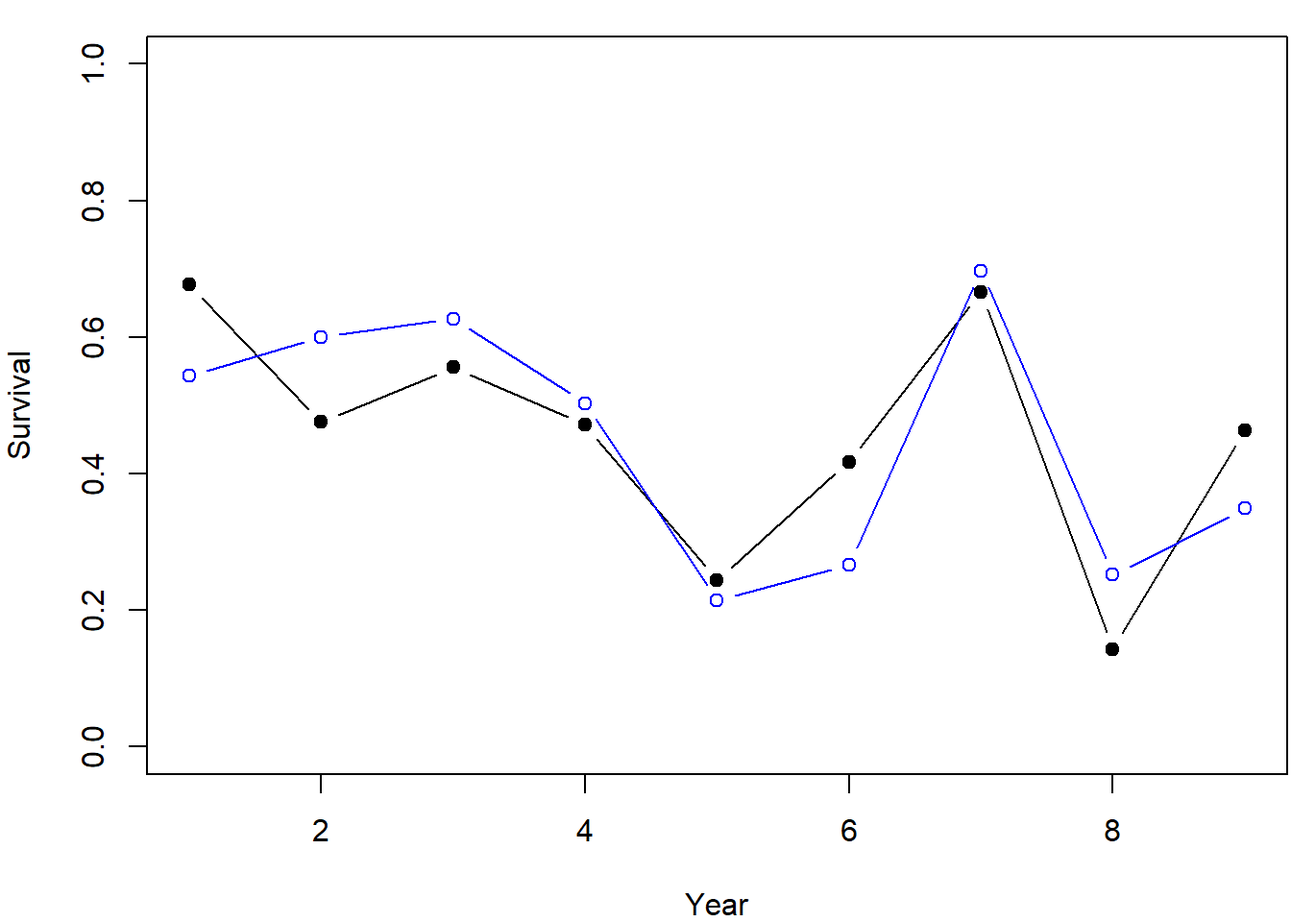
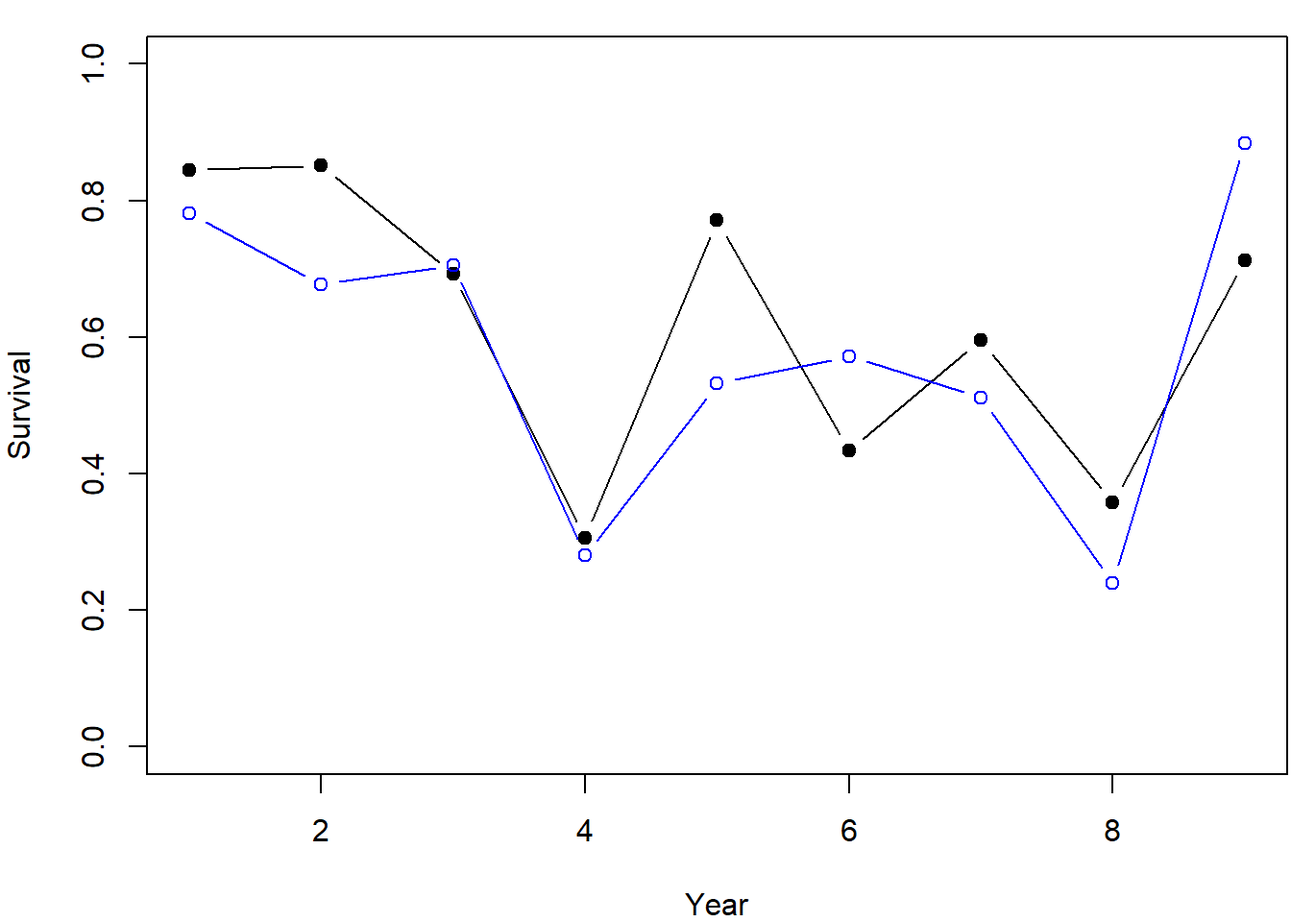
Chapter 6 edits

diff --git a/_book/Survival.html b/_book/Survival.html
@@ -23,7 +23,7 @@
 <meta name="author" content="Joseph E. Hightower" />
 
 
-<meta name="date" content="2024-05-03" />
+<meta name="date" content="2024-05-07" />
 
   <meta name="viewport" content="width=device-width, initial-scale=1" />
   <meta name="apple-mobile-web-app-capable" content="yes" />
@@ -682,12 +682,12 @@ div.csl-indent {
 <span id="cb9-58"><a href="Survival.html#cb9-58" tabindex="-1"></a><span class="fu">points</span>(AnnualS, <span class="at">col=</span><span class="st">&quot;blue&quot;</span>, <span class="at">type=</span><span class="st">&quot;b&quot;</span>)</span></code></pre></div>
 <p>The final three lines of code compare the annual survival estimates and true values (Figure <a href="Survival.html#fig:CohortPlot">6.1</a>). The plot option “type=b” produces a line of connected dots (i.e., <em>both</em> points and line segments), and the “pch=19” option selects for a filled dot. An online search for “r plot options pch” will provide the various choices for plotting symbols. The range for the y axis is fixed at 0-1 to ensure that the plot will contain the full range of both the estimates and the true values. The <code>points()</code> function adds to the plot the true values. The model provides reliable estimates of annual (and mean) survival and initial cohort size for the simulated data. Run the simulation and model fitting code multiple times to observe model performance. It would be worthwhile to test the approach using more variability in initial cohort sizes; for example, by using a negative binomial distribution rather than a Poisson.</p>
 <div class="figure"><span style="display:block;" id="fig:CohortPlot"></span>
-<img src="bookdown_files/figure-html/CohortPlot-1.png" alt="Estimated annual survival rate from survey catch-at-age matrix." width="90%" />
+<img src="bookdown_files/figure-html/CohortPlot-1.png" alt="Example run showing true (blue) and estimated (black) annual survival rate from a cohort-based analysis of survey catch-at-age data." width="90%" />
 <p class="caption">
-FIGURE 6.1: Estimated annual survival rate from survey catch-at-age matrix.
+FIGURE 6.1: Example run showing true (blue) and estimated (black) annual survival rate from a cohort-based analysis of survey catch-at-age data.
 </p>
 </div>
-<p>It is important to keep in mind our predicted survey catches are not estimates of true abundance but simply scaled to the survey catches. <span class="citation">Millar and Meyer (<a href="#ref-millar.meyer2000">2000</a>)</span> illustrate a Bayesian approach for estimating true abundance from survey <em>and</em> harvest catch-at-age matrices.</p>
+<p>It is important to keep in mind that the predicted survey catches are not estimates of true abundance but simply scaled to the survey catches. <span class="citation">Millar and Meyer (<a href="#ref-millar.meyer2000">2000</a>)</span> illustrate a Bayesian approach for estimating true abundance from survey <em>and</em> harvest catch-at-age matrices.</p>
 </div>
 </div>
 <div id="TelemetryBased" class="section level2 hasAnchor" number="6.2">
@@ -698,7 +698,7 @@ FIGURE 6.1: Estimated annual survival rate from survey catch-at-age matrix.
 <p>Our simulation is for the most basic case, with survival and detection probabilities that are constant over time. Extended models that allow for time variation are presented by <span class="citation">Kéry and Schaub (<a href="#ref-kéry.schaub_2011">2011</a>)</span>. The number of occasions and sample size are arbitrary but they serve as useful replicates here because the underlying parameters are constant over time and individuals. We assume a moderate survival rate (0.5) and a high detection probability (0.8). Detection probabilities of that magnitude are difficult to achieve by survey sampling but are reasonable when using an automated monitoring system <span class="citation">(<a href="#ref-hewitt.etal2010">Hewitt et al. 2010</a>)</span>.</p>
 <div class="sourceCode" id="cb10"><pre class="sourceCode r"><code class="sourceCode r"><span id="cb10-1"><a href="Survival.html#cb10-1" tabindex="-1"></a><span class="fu">rm</span>(<span class="at">list=</span><span class="fu">ls</span>()) <span class="co"># Clear Environment</span></span>
 <span id="cb10-2"><a href="Survival.html#cb10-2" tabindex="-1"></a></span>
-<span id="cb10-3"><a href="Survival.html#cb10-3" tabindex="-1"></a><span class="co"># Modified from Kery and Schaub 2012, Section 7.3</span></span>
+<span id="cb10-3"><a href="Survival.html#cb10-3" tabindex="-1"></a><span class="co"># Modified from Kery and Schaub 2011, Section 7.3</span></span>
 <span id="cb10-4"><a href="Survival.html#cb10-4" tabindex="-1"></a><span class="co"># Define parameter values</span></span>
 <span id="cb10-5"><a href="Survival.html#cb10-5" tabindex="-1"></a>n.occasions <span class="ot">&lt;-</span> <span class="dv">5</span>            <span class="co"># Number of capture occasions</span></span>
 <span id="cb10-6"><a href="Survival.html#cb10-6" tabindex="-1"></a>marked <span class="ot">&lt;-</span> <span class="dv">50</span>                <span class="co"># Number marked (all at time 1)</span></span>
@@ -760,28 +760,29 @@ FIGURE 6.1: Estimated annual survival rate from survey catch-at-age matrix.
 <span id="cb11-34"><a href="Survival.html#cb11-34" tabindex="-1"></a>  state <span class="ot">&lt;-</span> ch</span>
 <span id="cb11-35"><a href="Survival.html#cb11-35" tabindex="-1"></a>  <span class="cf">for</span> (i <span class="cf">in</span> <span class="dv">1</span><span class="sc">:</span><span class="fu">dim</span>(ch)[<span class="dv">1</span>]){</span>
 <span id="cb11-36"><a href="Survival.html#cb11-36" tabindex="-1"></a>    n1 <span class="ot">&lt;-</span> <span class="fu">min</span>(<span class="fu">which</span>(ch[i,]<span class="sc">==</span><span class="dv">1</span>)) <span class="co"># Column with first detection (col 1 here)</span></span>
-<span id="cb11-37"><a href="Survival.html#cb11-37" tabindex="-1"></a>    n2 <span class="ot">&lt;-</span> <span class="fu">max</span>(<span class="fu">which</span>(ch[i,]<span class="sc">==</span><span class="dv">1</span>)) <span class="co"># Last detection (so known to be alive between n1 and n2)</span></span>
-<span id="cb11-38"><a href="Survival.html#cb11-38" tabindex="-1"></a>    state[i,n1<span class="sc">:</span>n2] <span class="ot">&lt;-</span> <span class="dv">1</span></span>
-<span id="cb11-39"><a href="Survival.html#cb11-39" tabindex="-1"></a>    state[i,n1] <span class="ot">&lt;-</span> <span class="cn">NA</span></span>
-<span id="cb11-40"><a href="Survival.html#cb11-40" tabindex="-1"></a>  }</span>
-<span id="cb11-41"><a href="Survival.html#cb11-41" tabindex="-1"></a>  state[state<span class="sc">==</span><span class="dv">0</span>] <span class="ot">&lt;-</span> <span class="cn">NA</span></span>
-<span id="cb11-42"><a href="Survival.html#cb11-42" tabindex="-1"></a>  <span class="fu">return</span>(state)</span>
-<span id="cb11-43"><a href="Survival.html#cb11-43" tabindex="-1"></a>}</span>
-<span id="cb11-44"><a href="Survival.html#cb11-44" tabindex="-1"></a></span>
-<span id="cb11-45"><a href="Survival.html#cb11-45" tabindex="-1"></a>jags.inits <span class="ot">&lt;-</span> <span class="cf">function</span>(){<span class="fu">list</span>(<span class="at">S.est =</span> <span class="fu">runif</span>(<span class="dv">1</span>, <span class="dv">0</span>, <span class="dv">1</span>), <span class="at">p.est =</span> <span class="fu">runif</span>(<span class="dv">1</span>, <span class="dv">0</span>, <span class="dv">1</span>),</span>
-<span id="cb11-46"><a href="Survival.html#cb11-46" tabindex="-1"></a>                              <span class="at">z =</span> <span class="fu">init.z</span>(CH))}</span>
-<span id="cb11-47"><a href="Survival.html#cb11-47" tabindex="-1"></a></span>
-<span id="cb11-48"><a href="Survival.html#cb11-48" tabindex="-1"></a><span class="co"># Parameters monitored</span></span>
-<span id="cb11-49"><a href="Survival.html#cb11-49" tabindex="-1"></a>jags.params <span class="ot">&lt;-</span> <span class="fu">c</span>(<span class="st">&quot;S.est&quot;</span>, <span class="st">&quot;p.est&quot;</span>)</span>
-<span id="cb11-50"><a href="Survival.html#cb11-50" tabindex="-1"></a></span>
-<span id="cb11-51"><a href="Survival.html#cb11-51" tabindex="-1"></a>model.file <span class="ot">&lt;-</span> <span class="st">&#39;CJS_StateSpace.txt&#39;</span></span>
-<span id="cb11-52"><a href="Survival.html#cb11-52" tabindex="-1"></a></span>
-<span id="cb11-53"><a href="Survival.html#cb11-53" tabindex="-1"></a>jagsfit <span class="ot">&lt;-</span> <span class="fu">jags</span>(<span class="at">data=</span>jags.data, jags.params, <span class="at">inits=</span>jags.inits,</span>
-<span id="cb11-54"><a href="Survival.html#cb11-54" tabindex="-1"></a>                <span class="at">n.chains =</span> <span class="dv">3</span>, <span class="at">n.thin=</span><span class="dv">1</span>, <span class="at">n.iter =</span> <span class="dv">4000</span>, <span class="at">n.burnin=</span><span class="dv">2000</span>,</span>
-<span id="cb11-55"><a href="Survival.html#cb11-55" tabindex="-1"></a>                model.file)</span>
-<span id="cb11-56"><a href="Survival.html#cb11-56" tabindex="-1"></a><span class="fu">print</span>(jagsfit)</span>
-<span id="cb11-57"><a href="Survival.html#cb11-57" tabindex="-1"></a><span class="fu">plot</span>(jagsfit)</span></code></pre></div>
-<p>The JAGS code for fitting the model uses our standard uninformative prior distribution for the two probabilities (survival, detection probability). The likelihood mirrors the simulation code. The matrix z contains the latent state, which is sometimes known but inferred in situations where the pattern is ambiguous. JAGS requires good initial values (or will terminate execution if it encounters an initial value that is inconsistent with the observations, such as detection of a fish that the model considers to be dead). To avoid that, we use the <span class="citation">Kéry and Schaub (<a href="#ref-kéry.schaub_2011">2011</a>)</span> approach where the latent state is set to 1 between the first and last detections of an individual (user-defined function <code>init.z()</code>).</p>
+<span id="cb11-37"><a href="Survival.html#cb11-37" tabindex="-1"></a>    n2 <span class="ot">&lt;-</span> <span class="fu">max</span>(<span class="fu">which</span>(ch[i,]<span class="sc">==</span><span class="dv">1</span>)) <span class="co"># Column with last detection</span></span>
+<span id="cb11-38"><a href="Survival.html#cb11-38" tabindex="-1"></a>    <span class="co"># Fish are known to be alive between n1 and n2</span></span>
+<span id="cb11-39"><a href="Survival.html#cb11-39" tabindex="-1"></a>    state[i,n1<span class="sc">:</span>n2] <span class="ot">&lt;-</span> <span class="dv">1</span></span>
+<span id="cb11-40"><a href="Survival.html#cb11-40" tabindex="-1"></a>    state[i,n1] <span class="ot">&lt;-</span> <span class="cn">NA</span> <span class="co"># Initial value not needed for release period</span></span>
+<span id="cb11-41"><a href="Survival.html#cb11-41" tabindex="-1"></a>  }</span>
+<span id="cb11-42"><a href="Survival.html#cb11-42" tabindex="-1"></a>  state[state<span class="sc">==</span><span class="dv">0</span>] <span class="ot">&lt;-</span> <span class="cn">NA</span></span>
+<span id="cb11-43"><a href="Survival.html#cb11-43" tabindex="-1"></a>  <span class="fu">return</span>(state)</span>
+<span id="cb11-44"><a href="Survival.html#cb11-44" tabindex="-1"></a>}</span>
+<span id="cb11-45"><a href="Survival.html#cb11-45" tabindex="-1"></a></span>
+<span id="cb11-46"><a href="Survival.html#cb11-46" tabindex="-1"></a>jags.inits <span class="ot">&lt;-</span> <span class="cf">function</span>(){<span class="fu">list</span>(<span class="at">S.est =</span> <span class="fu">runif</span>(<span class="dv">1</span>, <span class="dv">0</span>, <span class="dv">1</span>), <span class="at">p.est =</span> <span class="fu">runif</span>(<span class="dv">1</span>, <span class="dv">0</span>, <span class="dv">1</span>),</span>
+<span id="cb11-47"><a href="Survival.html#cb11-47" tabindex="-1"></a>                              <span class="at">z =</span> <span class="fu">init.z</span>(CH))}</span>
+<span id="cb11-48"><a href="Survival.html#cb11-48" tabindex="-1"></a></span>
+<span id="cb11-49"><a href="Survival.html#cb11-49" tabindex="-1"></a><span class="co"># Parameters monitored</span></span>
+<span id="cb11-50"><a href="Survival.html#cb11-50" tabindex="-1"></a>jags.params <span class="ot">&lt;-</span> <span class="fu">c</span>(<span class="st">&quot;S.est&quot;</span>, <span class="st">&quot;p.est&quot;</span>)</span>
+<span id="cb11-51"><a href="Survival.html#cb11-51" tabindex="-1"></a></span>
+<span id="cb11-52"><a href="Survival.html#cb11-52" tabindex="-1"></a>model.file <span class="ot">&lt;-</span> <span class="st">&#39;CJS_StateSpace.txt&#39;</span></span>
+<span id="cb11-53"><a href="Survival.html#cb11-53" tabindex="-1"></a></span>
+<span id="cb11-54"><a href="Survival.html#cb11-54" tabindex="-1"></a>jagsfit <span class="ot">&lt;-</span> <span class="fu">jags</span>(<span class="at">data=</span>jags.data, jags.params, <span class="at">inits=</span>jags.inits,</span>
+<span id="cb11-55"><a href="Survival.html#cb11-55" tabindex="-1"></a>                <span class="at">n.chains =</span> <span class="dv">3</span>, <span class="at">n.thin=</span><span class="dv">1</span>, <span class="at">n.iter =</span> <span class="dv">4000</span>, <span class="at">n.burnin=</span><span class="dv">2000</span>,</span>
+<span id="cb11-56"><a href="Survival.html#cb11-56" tabindex="-1"></a>                model.file)</span>
+<span id="cb11-57"><a href="Survival.html#cb11-57" tabindex="-1"></a><span class="fu">print</span>(jagsfit)</span>
+<span id="cb11-58"><a href="Survival.html#cb11-58" tabindex="-1"></a><span class="fu">plot</span>(jagsfit)</span></code></pre></div>
+<p>The JAGS code for fitting the model uses our standard uninformative priors for the two probabilities (survival, detection probability). The likelihood mirrors the simulation code. The matrix z contains the latent state, which is sometimes known but inferred in situations where the pattern is ambiguous. JAGS requires good initial values (or will terminate execution if it encounters an initial value that is inconsistent with the observations, such as detection of a fish that the model considers to be dead). To avoid that, we use the <span class="citation">Kéry and Schaub (<a href="#ref-kéry.schaub_2011">2011</a>)</span> approach where the latent state is set to 1 between the first and last detections of an individual (user-defined function <code>init.z()</code>).</p>
 <p>Estimates appear to be very reliable for this scenario, where capture histories for 50 fish are used to estimate only two time-independent parameters. Would you obtain usefully precise results with a sample size of 25 or 30 fish? How does reliability change as you reduce the assumed capture probability?</p>
 <p>One important advantage of this telemetry method is that estimates are essentially produced in real-time and on any time scale. For example, the method could be used to estimate average annual survival over the first few years after a regulation change. Even better would be to modify the code to generate annual survival estimates, so that monitoring could be done over a block of years with a management action taken midway.</p>
 </div>
@@ -823,7 +824,7 @@ FIGURE 6.1: Estimated annual survival rate from survey catch-at-age matrix.
 <p>Tags at risk are contained in an upper triangular matrix, with the diagonal element being the number released (NTags) and subsequent elements obtained as the previous number at risk multiplied by the survival rate. We arbitrarily assume Periods=3, a true survival rate (S.true) of 0.8 and a tag-recovery rate of 0.1. You should inspect the matrix by clicking on the name in the Environment window. The above parameters result in a vector of 1000, 800, and 640 tags at risk from a release in period 1. Cells in the matrix of fates are obtained as the number at risk times the tag-recovery rate, plus a final column for fish not seen again. The number released (1000) is arbitrary (and ambitious), but using a large value is helpful for reviewing the calculations that produce the two matrices. The parameter values can be changed to mimic any planned study design.</p>
 <p>This section of code introduces a <code>while</code> loop. This different looping construct is needed because all rows except the last one include periods after the release. We need to be able to skip the additional processing in the last row, which has only the diagonal element. The final column for each row is the not-seen-again calculation. That value is highest for the most recent release, because most of those fish will still be alive. That uncertainty about whether fish are still at risk or have died is reduced by extending the number of periods for tag returns. Our example has the same number of releases and return periods, but the code could be modified to allow for additional periods of tag returns.</p>
 <p>Inspecting the matrix of fates is helpful for understanding how survival is estimated. The expected tag returns within any column form ratios that equal the survival rate. For example, we would expect 80 tags returned in the second period from the first release compared to 100 from the second release, because the first release has been at large for one additional period. Similarly the ratio from successive rows of returns in period 3 also equal the survival rate. Thus we have several cells (and ratios) that provide information about survival, which we assumed to be constant over the three periods.</p>
-<p>The final lines of code in this section introduce the stochasticity associated with a multinomial distribution. The matrix of fates (expected values) provide the cell probabilities (once rescaled, internal to the <code>rmultinom()</code> function). It is instructive to compare the expected values and random realizations to see the level of variability associated with the multinomial distribution. Now the ratios of random values within a column no longer equals (but will vary around) the true survival rate.</p>
+<p>The final lines of code in this section introduce the stochasticity associated with a multinomial distribution. The matrix of fates (expected values) provide the cell probabilities (once rescaled, internal to the <code>rmultinom()</code> function). It is instructive to compare the expected values (TagFate) and random realizations (RandRet) to see the level of variability associated with the multinomial distribution. Now the ratios of random values within a column no longer equal (but will vary around) the true survival rate.</p>
 <div class="sourceCode" id="cb13"><pre class="sourceCode r"><code class="sourceCode r"><span id="cb13-1"><a href="Survival.html#cb13-1" tabindex="-1"></a><span class="co"># Load necessary library</span></span>
 <span id="cb13-2"><a href="Survival.html#cb13-2" tabindex="-1"></a><span class="fu">library</span>(rjags)</span>
 <span id="cb13-3"><a href="Survival.html#cb13-3" tabindex="-1"></a><span class="fu">library</span>(R2jags)</span>
@@ -845,41 +846,54 @@ FIGURE 6.1: Estimated annual survival rate from survey catch-at-age matrix.
 <span id="cb13-19"><a href="Survival.html#cb13-19" tabindex="-1"></a><span class="st">   for (j in (i+1):Periods) {</span></span>
 <span id="cb13-20"><a href="Survival.html#cb13-20" tabindex="-1"></a><span class="st">      p.est[i,j] &lt;- p.est[i,(j-1)] * S.est</span></span>
 <span id="cb13-21"><a href="Survival.html#cb13-21" tabindex="-1"></a><span class="st">      } #j</span></span>
-<span id="cb13-22"><a href="Survival.html#cb13-22" tabindex="-1"></a><span class="st">    p.est[i,Periods+1] &lt;- 1 - sum(p.est[i, i:Periods])   # Prob of not being seen again</span></span>
-<span id="cb13-23"><a href="Survival.html#cb13-23" tabindex="-1"></a><span class="st">    } #i</span></span>
-<span id="cb13-24"><a href="Survival.html#cb13-24" tabindex="-1"></a></span>
-<span id="cb13-25"><a href="Survival.html#cb13-25" tabindex="-1"></a><span class="st"># Likelihood</span></span>
-<span id="cb13-26"><a href="Survival.html#cb13-26" tabindex="-1"></a><span class="st">  for (i in 1:Periods) {</span></span>
-<span id="cb13-27"><a href="Survival.html#cb13-27" tabindex="-1"></a><span class="st">    RandRet[i,i:(Periods+1)] ~ dmulti(p.est[i,i:(Periods+1)], NTags)</span></span>
-<span id="cb13-28"><a href="Survival.html#cb13-28" tabindex="-1"></a><span class="st">    }#i</span></span>
-<span id="cb13-29"><a href="Survival.html#cb13-29" tabindex="-1"></a><span class="st"> } # model</span></span>
-<span id="cb13-30"><a href="Survival.html#cb13-30" tabindex="-1"></a></span>
-<span id="cb13-31"><a href="Survival.html#cb13-31" tabindex="-1"></a><span class="st">&quot;</span>,<span class="at">fill=</span><span class="cn">TRUE</span>)</span>
-<span id="cb13-32"><a href="Survival.html#cb13-32" tabindex="-1"></a><span class="fu">sink</span>()</span>
-<span id="cb13-33"><a href="Survival.html#cb13-33" tabindex="-1"></a></span>
-<span id="cb13-34"><a href="Survival.html#cb13-34" tabindex="-1"></a>     <span class="co"># Bundle data</span></span>
-<span id="cb13-35"><a href="Survival.html#cb13-35" tabindex="-1"></a>  jags.data <span class="ot">&lt;-</span> <span class="fu">list</span>(<span class="st">&quot;RandRet&quot;</span>, <span class="st">&quot;Periods&quot;</span>, <span class="st">&quot;NTags&quot;</span>)</span>
-<span id="cb13-36"><a href="Survival.html#cb13-36" tabindex="-1"></a></span>
-<span id="cb13-37"><a href="Survival.html#cb13-37" tabindex="-1"></a>  S.init <span class="ot">&lt;-</span> <span class="fu">runif</span>(<span class="dv">1</span>,<span class="at">min=</span><span class="dv">0</span>,<span class="at">max=</span><span class="dv">1</span>)</span>
-<span id="cb13-38"><a href="Survival.html#cb13-38" tabindex="-1"></a>  r.init <span class="ot">&lt;-</span> <span class="dv">1</span><span class="sc">-</span>S.init</span>
-<span id="cb13-39"><a href="Survival.html#cb13-39" tabindex="-1"></a></span>
-<span id="cb13-40"><a href="Survival.html#cb13-40" tabindex="-1"></a>  <span class="co"># Initial values</span></span>
-<span id="cb13-41"><a href="Survival.html#cb13-41" tabindex="-1"></a>  jags.inits <span class="ot">&lt;-</span> <span class="cf">function</span>(){<span class="fu">list</span>(<span class="at">S.est =</span> S.init, <span class="at">r.est=</span>r.init)}</span>
-<span id="cb13-42"><a href="Survival.html#cb13-42" tabindex="-1"></a></span>
-<span id="cb13-43"><a href="Survival.html#cb13-43" tabindex="-1"></a>  model.file <span class="ot">&lt;-</span> <span class="st">&#39;TagReturn.txt&#39;</span></span>
-<span id="cb13-44"><a href="Survival.html#cb13-44" tabindex="-1"></a></span>
-<span id="cb13-45"><a href="Survival.html#cb13-45" tabindex="-1"></a>  <span class="co"># Parameters monitored</span></span>
-<span id="cb13-46"><a href="Survival.html#cb13-46" tabindex="-1"></a>  jags.params <span class="ot">&lt;-</span> <span class="fu">c</span>(<span class="st">&quot;S.est&quot;</span>, <span class="st">&quot;r.est&quot;</span>, <span class="st">&quot;A.est&quot;</span>)</span>
-<span id="cb13-47"><a href="Survival.html#cb13-47" tabindex="-1"></a></span>
-<span id="cb13-48"><a href="Survival.html#cb13-48" tabindex="-1"></a>   <span class="co"># Call JAGS from R</span></span>
-<span id="cb13-49"><a href="Survival.html#cb13-49" tabindex="-1"></a>  jagsfit <span class="ot">&lt;-</span> <span class="fu">jags</span>(<span class="at">data=</span>jags.data, jags.params, <span class="at">inits=</span>jags.inits,</span>
-<span id="cb13-50"><a href="Survival.html#cb13-50" tabindex="-1"></a>                  <span class="at">n.chains =</span> <span class="dv">3</span>, <span class="at">n.thin=</span><span class="dv">1</span>, <span class="at">n.iter =</span> <span class="dv">4000</span>, <span class="at">n.burnin=</span><span class="dv">2000</span>,</span>
-<span id="cb13-51"><a href="Survival.html#cb13-51" tabindex="-1"></a>                  model.file)</span>
-<span id="cb13-52"><a href="Survival.html#cb13-52" tabindex="-1"></a>  <span class="fu">print</span>(jagsfit)</span>
-<span id="cb13-53"><a href="Survival.html#cb13-53" tabindex="-1"></a>  <span class="fu">plot</span>(jagsfit)</span></code></pre></div>
-<p>The analysis begins by establishing the usual uninformative prior distributions for the two rates. We calculate the total mortality rate (A.est) as the complement of the survival rate (1-S.est). One important advantage of a Bayesian analysis is that we automatically obtain measures of uncertainty for functions of model parameters. Here the function is simply 1-S.est, but this advantage applies regardless of the function’s complexity.</p>
+<span id="cb13-22"><a href="Survival.html#cb13-22" tabindex="-1"></a><span class="st">    p.est[i,Periods+1] &lt;- 1 - sum(p.est[i, i:Periods])</span></span>
+<span id="cb13-23"><a href="Survival.html#cb13-23" tabindex="-1"></a><span class="st">    # Last column is prob of not being seen again</span></span>
+<span id="cb13-24"><a href="Survival.html#cb13-24" tabindex="-1"></a><span class="st">    } #i</span></span>
+<span id="cb13-25"><a href="Survival.html#cb13-25" tabindex="-1"></a></span>
+<span id="cb13-26"><a href="Survival.html#cb13-26" tabindex="-1"></a><span class="st"># Likelihood</span></span>
+<span id="cb13-27"><a href="Survival.html#cb13-27" tabindex="-1"></a><span class="st">  for (i in 1:Periods) {</span></span>
+<span id="cb13-28"><a href="Survival.html#cb13-28" tabindex="-1"></a><span class="st">    RandRet[i,i:(Periods+1)] ~ dmulti(p.est[i,i:(Periods+1)], NTags)</span></span>
+<span id="cb13-29"><a href="Survival.html#cb13-29" tabindex="-1"></a><span class="st">    }#i</span></span>
+<span id="cb13-30"><a href="Survival.html#cb13-30" tabindex="-1"></a><span class="st"> } # model</span></span>
+<span id="cb13-31"><a href="Survival.html#cb13-31" tabindex="-1"></a></span>
+<span id="cb13-32"><a href="Survival.html#cb13-32" tabindex="-1"></a><span class="st">&quot;</span>,<span class="at">fill=</span><span class="cn">TRUE</span>)</span>
+<span id="cb13-33"><a href="Survival.html#cb13-33" tabindex="-1"></a><span class="fu">sink</span>()</span>
+<span id="cb13-34"><a href="Survival.html#cb13-34" tabindex="-1"></a></span>
+<span id="cb13-35"><a href="Survival.html#cb13-35" tabindex="-1"></a>     <span class="co"># Bundle data</span></span>
+<span id="cb13-36"><a href="Survival.html#cb13-36" tabindex="-1"></a>  jags.data <span class="ot">&lt;-</span> <span class="fu">list</span>(<span class="st">&quot;RandRet&quot;</span>, <span class="st">&quot;Periods&quot;</span>, <span class="st">&quot;NTags&quot;</span>)</span>
+<span id="cb13-37"><a href="Survival.html#cb13-37" tabindex="-1"></a></span>
+<span id="cb13-38"><a href="Survival.html#cb13-38" tabindex="-1"></a>  S.init <span class="ot">&lt;-</span> <span class="fu">runif</span>(<span class="dv">1</span>,<span class="at">min=</span><span class="dv">0</span>,<span class="at">max=</span><span class="dv">1</span>)</span>
+<span id="cb13-39"><a href="Survival.html#cb13-39" tabindex="-1"></a>  r.init <span class="ot">&lt;-</span> <span class="dv">1</span><span class="sc">-</span>S.init</span>
+<span id="cb13-40"><a href="Survival.html#cb13-40" tabindex="-1"></a></span>
+<span id="cb13-41"><a href="Survival.html#cb13-41" tabindex="-1"></a>  <span class="co"># Initial values</span></span>
+<span id="cb13-42"><a href="Survival.html#cb13-42" tabindex="-1"></a>  jags.inits <span class="ot">&lt;-</span> <span class="cf">function</span>(){<span class="fu">list</span>(<span class="at">S.est =</span> S.init, <span class="at">r.est=</span>r.init)}</span>
+<span id="cb13-43"><a href="Survival.html#cb13-43" tabindex="-1"></a></span>
+<span id="cb13-44"><a href="Survival.html#cb13-44" tabindex="-1"></a>  model.file <span class="ot">&lt;-</span> <span class="st">&#39;TagReturn.txt&#39;</span></span>
+<span id="cb13-45"><a href="Survival.html#cb13-45" tabindex="-1"></a></span>
+<span id="cb13-46"><a href="Survival.html#cb13-46" tabindex="-1"></a>  <span class="co"># Parameters monitored</span></span>
+<span id="cb13-47"><a href="Survival.html#cb13-47" tabindex="-1"></a>  jags.params <span class="ot">&lt;-</span> <span class="fu">c</span>(<span class="st">&quot;S.est&quot;</span>, <span class="st">&quot;r.est&quot;</span>, <span class="st">&quot;A.est&quot;</span>)</span>
+<span id="cb13-48"><a href="Survival.html#cb13-48" tabindex="-1"></a></span>
+<span id="cb13-49"><a href="Survival.html#cb13-49" tabindex="-1"></a>   <span class="co"># Call JAGS from R</span></span>
+<span id="cb13-50"><a href="Survival.html#cb13-50" tabindex="-1"></a>  jagsfit <span class="ot">&lt;-</span> <span class="fu">jags</span>(<span class="at">data=</span>jags.data, jags.params, <span class="at">inits=</span>jags.inits,</span>
+<span id="cb13-51"><a href="Survival.html#cb13-51" tabindex="-1"></a>                  <span class="at">n.chains =</span> <span class="dv">3</span>, <span class="at">n.thin=</span><span class="dv">1</span>, <span class="at">n.iter =</span> <span class="dv">4000</span>, <span class="at">n.burnin=</span><span class="dv">2000</span>,</span>
+<span id="cb13-52"><a href="Survival.html#cb13-52" tabindex="-1"></a>                  model.file)</span>
+<span id="cb13-53"><a href="Survival.html#cb13-53" tabindex="-1"></a>  <span class="fu">print</span>(jagsfit)</span>
+<span id="cb13-54"><a href="Survival.html#cb13-54" tabindex="-1"></a>  <span class="fu">plot</span>(jagsfit)</span>
+<span id="cb13-55"><a href="Survival.html#cb13-55" tabindex="-1"></a>  </span>
+<span id="cb13-56"><a href="Survival.html#cb13-56" tabindex="-1"></a>  <span class="co"># Estimated posterior distributions</span></span>
+<span id="cb13-57"><a href="Survival.html#cb13-57" tabindex="-1"></a><span class="fu">hist</span>(jagsfit<span class="sc">$</span>BUGSoutput<span class="sc">$</span>sims.array[,,<span class="dv">2</span>], <span class="at">main=</span><span class="st">&quot;&quot;</span>, <span class="at">xlab=</span><span class="st">&quot;Survival&quot;</span>)</span>
+<span id="cb13-58"><a href="Survival.html#cb13-58" tabindex="-1"></a><span class="fu">abline</span>(<span class="at">v=</span>S.true, <span class="at">col=</span><span class="st">&quot;red&quot;</span>)</span>
+<span id="cb13-59"><a href="Survival.html#cb13-59" tabindex="-1"></a><span class="fu">hist</span>(jagsfit<span class="sc">$</span>BUGSoutput<span class="sc">$</span>sims.array[,,<span class="dv">4</span>], <span class="at">main=</span><span class="st">&quot;&quot;</span>, <span class="at">xlab=</span><span class="st">&quot;Tag recovery rate&quot;</span>)</span>
+<span id="cb13-60"><a href="Survival.html#cb13-60" tabindex="-1"></a><span class="fu">abline</span>(<span class="at">v=</span>r.true, <span class="at">col=</span><span class="st">&quot;red&quot;</span>)</span></code></pre></div>
+<p>The analysis begins with the usual uninformative priors for the two rates. We calculate the total mortality rate (A.est) as the complement of the survival rate (1-S.est). One important advantage of a Bayesian analysis is that we automatically obtain measures of uncertainty for functions of model parameters. Here the function is simply 1-S.est, but this advantage applies regardless of the function’s complexity.</p>
 <p>The likelihood calculations (<code>dmulti()</code>) requires cell probabilities for the multinomial distribution, so we calculate those probabilities directly rather than keeping track of numbers of tags by fate. The probability of a tag from release i being returned in period j is <code>p.est[i,j] &lt;- p.est[i,(j-1)] * S.est</code>. Make sure that you understand this expression for specific values of i and j. Can you think of another way of coding this calculation? Note that <code>for</code> loops work differently in JAGS compared to R, so we are able to use them for row and column processing. In JAGS, the ‘j’ loop is not executed when i=3 because j&gt;Periods. Note that our initial value for the tag-recovery rate is obtained as 1-S.init. The tag recovery rate cannot exceed 1-S.init, and would typically be less due to the other possible outcome, natural death.</p>
-<p>Estimates are good for this case, which is not surprising given the very large releases and only two time-independent parameters to estimate. The estimated number of effective parameters was 1.9 for one run, which is consistent with the two apparent model parameters (S.est, r.est) and A.est which is simply a function of S.est.</p>
+<p>Estimates are typically reliable for this case (Figure <a href="Survival.html#fig:TagRetPlot">6.2</a>), which is not surprising given the very large releases and only two time-independent parameters to estimate. The estimated number of effective parameters was 1.9 for one run, which is consistent with the two apparent model parameters (S.est, r.est) and A.est which is simply a function of S.est.</p>
+<div class="figure"><span style="display:block;" id="fig:TagRetPlot"></span>
+<img src="bookdown_files/figure-html/TagRetPlot-1.png" alt="Example of estimated posterior distributions for survival and tag-recovery rates from 3-year tag-return study with annual releases of 1000 tagged fish. Red vertical lines indicate true values." width="45%" /><img src="bookdown_files/figure-html/TagRetPlot-2.png" alt="Example of estimated posterior distributions for survival and tag-recovery rates from 3-year tag-return study with annual releases of 1000 tagged fish. Red vertical lines indicate true values." width="45%" />
+<p class="caption">
+FIGURE 6.2: Example of estimated posterior distributions for survival and tag-recovery rates from 3-year tag-return study with annual releases of 1000 tagged fish. Red vertical lines indicate true values.
+</p>
+</div>
 <p>If you think about a local system with which you are familiar, how practical would it be to tag 1000 fish at the start of each period (e.g., annually)? If you were responsible for planning the tagging operation, what sampling gear would you recommend? Would there be any potential concern about mortality due to handling? What size field crew would be needed and how much time would the tagging operation require? Could you use simulation to explore different sample sizes before recommending a specific field design?</p>
 </div>
 <div id="exercises-3" class="section level2 hasAnchor" number="6.4">

diff --git a/_book/404.html b/_book/404.html
@@ -23,7 +23,7 @@
 <meta name="author" content="Joseph E. Hightower" />
 
 
-<meta name="date" content="2024-05-03" />
+<meta name="date" content="2024-05-07" />
 
   <meta name="viewport" content="width=device-width, initial-scale=1" />
   <meta name="apple-mobile-web-app-capable" content="yes" />
